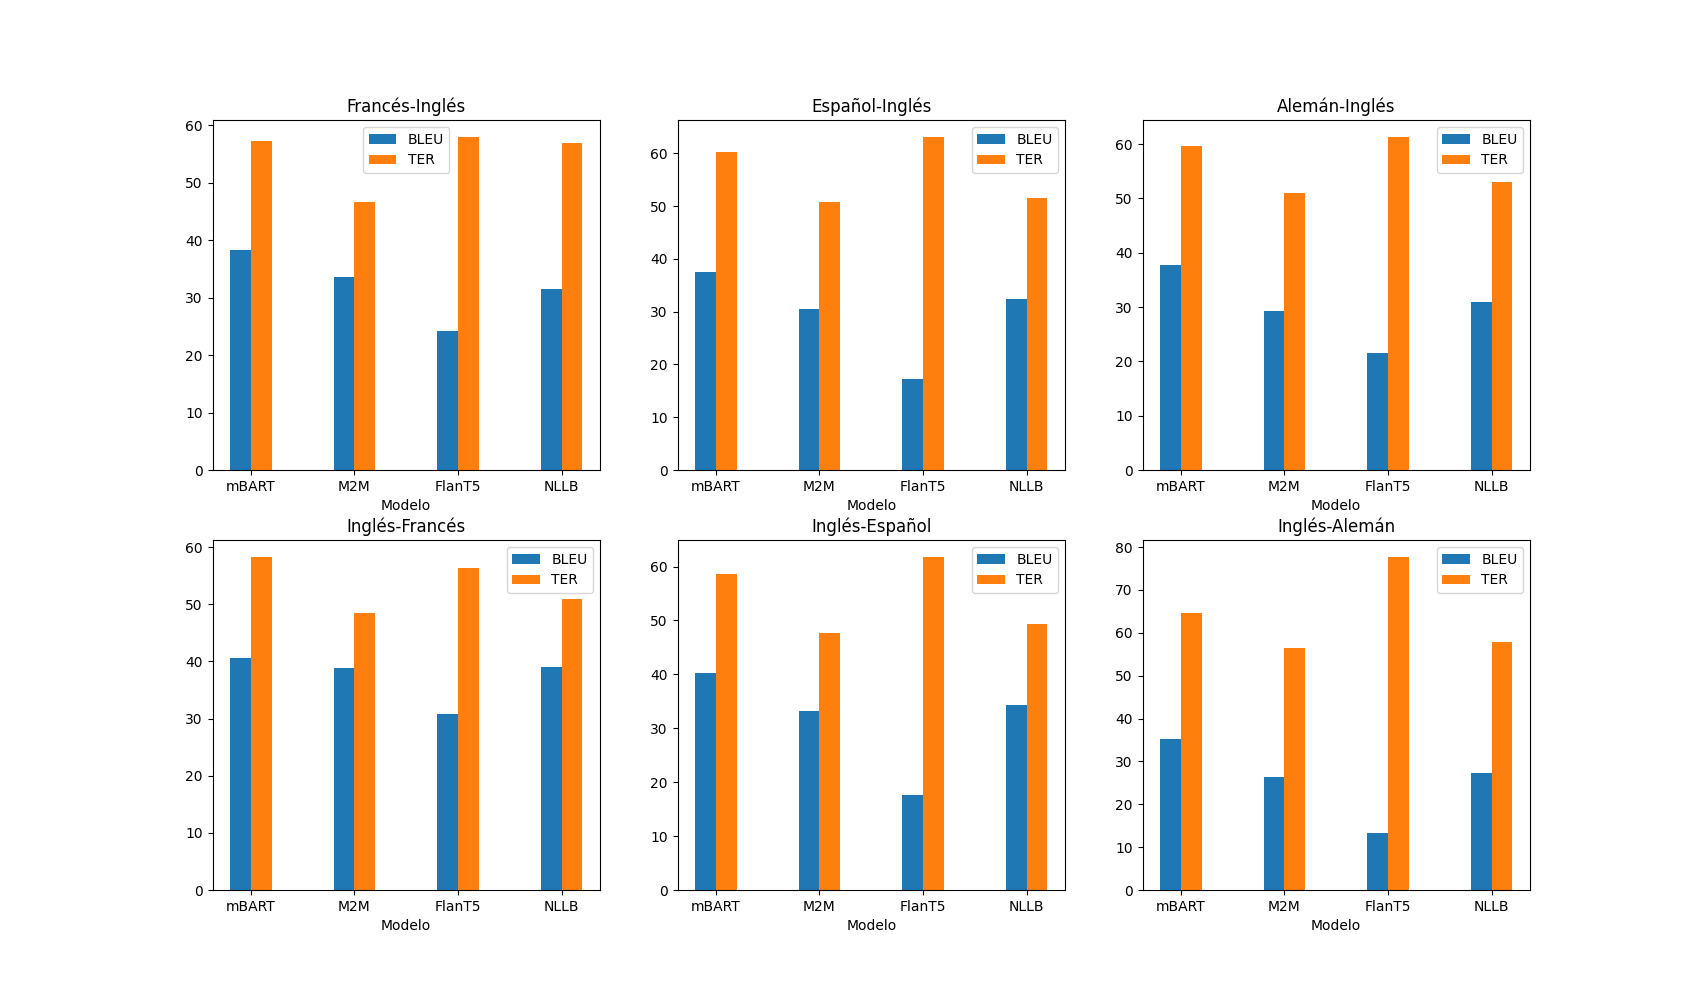
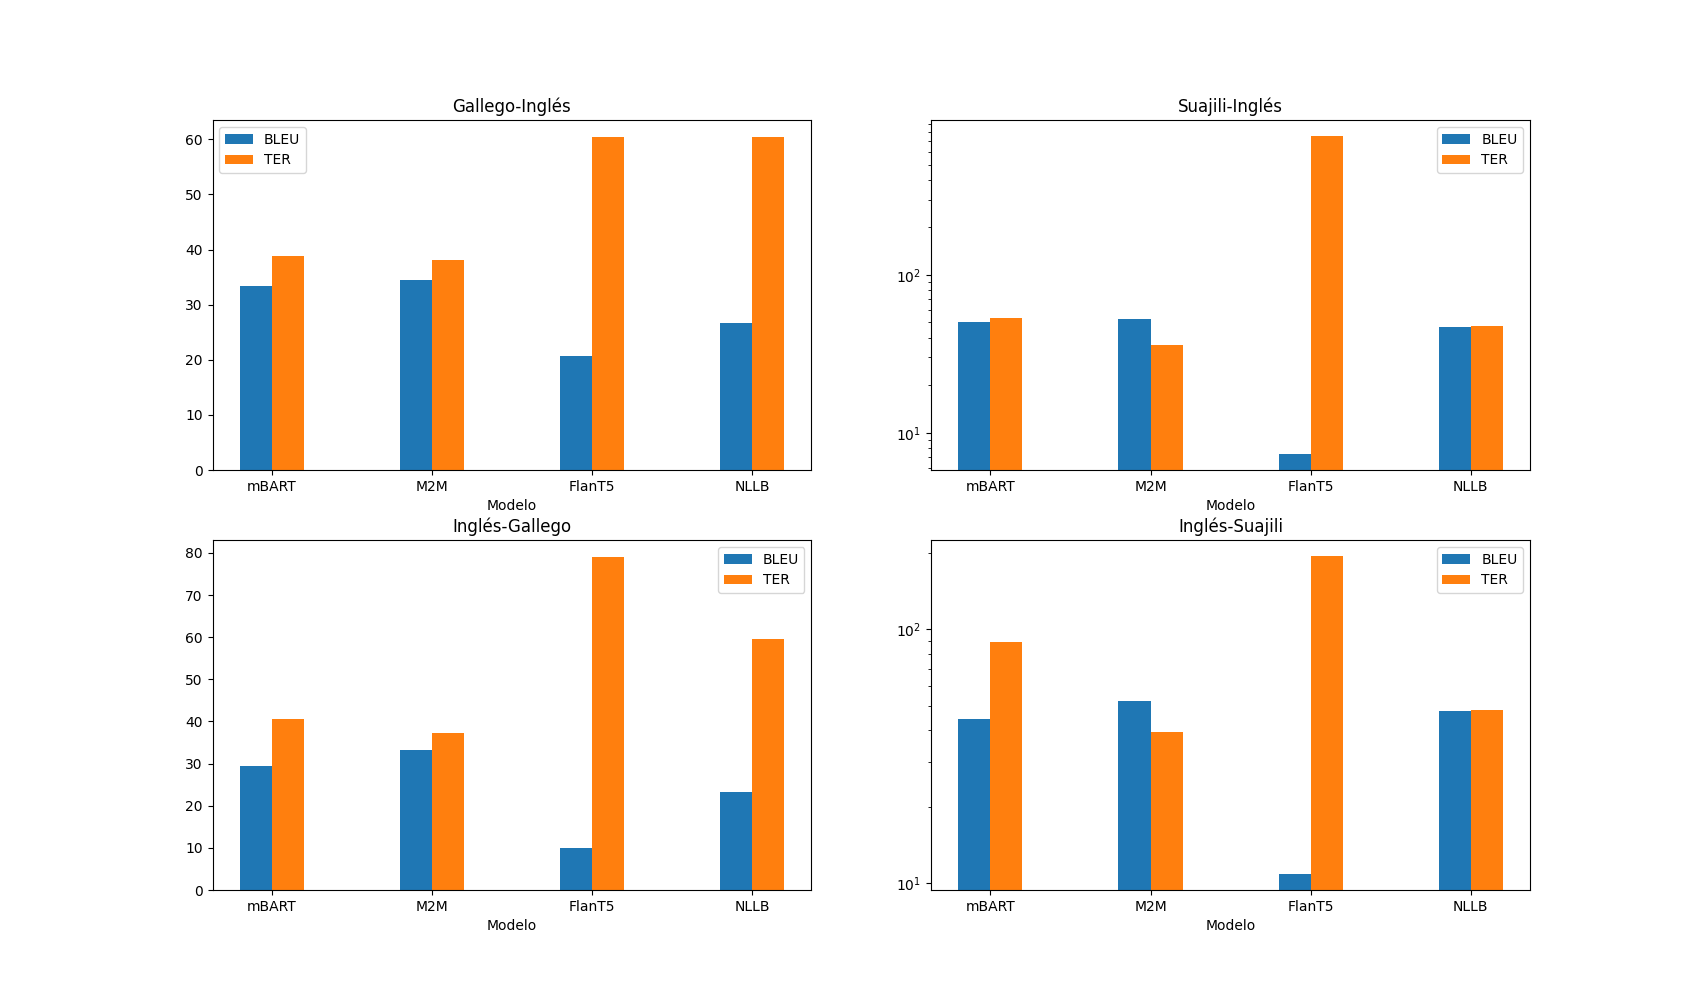
correccion de resultados

diff --git a/utils/bleu_ter.py b/utils/bleu_ter.py
@@ -8,7 +8,7 @@ import pandas as pd
 BAR_WIDTH = 0.2
 iso639 = {'en':'Inglés','fr':'Francés','de':'Alemán','es':'Español','gl':'Gallego','sw':'Suajili','ne':'Nepalí'}
 
-def plot_chart(data,filename, langs):
+def bleu_ter(data,filename, langs):
     MODELS = data['modelo'].unique()
     x = np.arange(len(MODELS))
     pairs = [(src,'en') for src in langs] + [('en',trg) for trg in langs]
@@ -24,7 +24,8 @@ def plot_chart(data,filename, langs):
                       (data['src']==src) & (data['trg']==trg)]['ter'].values.item()*100 for modelo in MODELS]
         plt.bar(x-BAR_WIDTH/2,bleu, BAR_WIDTH, label='BLEU')
         plt.bar(x+BAR_WIDTH-BAR_WIDTH/2,ter, BAR_WIDTH, label='TER')
-        #plt.yscale('log')
+        if src == 'sw' or trg == 'sw':
+            plt.yscale('log')
         #plt.yticks([10,100],[10,100])
         plt.xticks(x, MODELS)
         plt.xlabel('Modelo')
@@ -33,8 +34,51 @@ def plot_chart(data,filename, langs):
     plt.savefig(filename)
     #plt.show()
 
+def wsr_mar(data,filename, src, trg):
+    MODELS = data['modelo'].unique()
+    x = np.arange(len(MODELS))
+
+    plt.figure(figsize=(13,7))
+    plt.subplot(1,2,1)
+    pref_wsr = [data[(data['modelo'] == modelo) & (data['metodo'] == 'prefix') & 
+                    (data['src']==src) & (data['trg']==trg)]['wsr'].values.item() for modelo in MODELS]
+    seg_wsr = [data[(data['modelo'] == modelo) & (data['metodo'] == 'segment') & 
+                    (data['src']==src) & (data['trg']==trg)]['wsr'].values.item() for modelo in MODELS]
+    pref_mar = [data[(data['modelo'] == modelo) & (data['metodo'] == 'prefix') & 
+                    (data['src']==src) & (data['trg']==trg)]['mar'].values.item() for modelo in MODELS]
+    seg_mar = [data[(data['modelo'] == modelo) & (data['metodo'] == 'segment') & 
+                    (data['src']==src) & (data['trg']==trg)]['mar'].values.item() for modelo in MODELS]
+    plt.bar(x-3*BAR_WIDTH/2,pref_wsr, BAR_WIDTH, label='WSR prefijos')
+    plt.bar(x+BAR_WIDTH-3*BAR_WIDTH/2,seg_wsr, BAR_WIDTH, label='WSR segmentos')
+    plt.bar(x+2*BAR_WIDTH-3*BAR_WIDTH/2,pref_mar, BAR_WIDTH, label='MAR prefijos')
+    plt.bar(x+3*BAR_WIDTH-3*BAR_WIDTH/2,seg_mar, BAR_WIDTH, label='MAR segmentos')
+    plt.xticks(x, MODELS)
+    plt.xlabel('Modelo')
+    plt.legend()
+    plt.title(f'{iso639[src]}-{iso639[trg]}')
+
+    plt.subplot(1,2,2)
+    pref_wsr = [data[(data['modelo'] == modelo) & (data['metodo'] == 'prefix') & 
+                    (data['src']==trg) & (data['trg']==src)]['wsr'].values.item() for modelo in MODELS]
+    seg_wsr = [data[(data['modelo'] == modelo) & (data['metodo'] == 'segment') & 
+                    (data['src']==trg) & (data['trg']==src)]['wsr'].values.item() for modelo in MODELS]
+    pref_mar = [data[(data['modelo'] == modelo) & (data['metodo'] == 'prefix') & 
+                    (data['src']==trg) & (data['trg']==src)]['mar'].values.item() for modelo in MODELS]
+    seg_mar = [data[(data['modelo'] == modelo) & (data['metodo'] == 'segment') & 
+                    (data['src']==trg) & (data['trg']==src)]['mar'].values.item() for modelo in MODELS]
+    plt.bar(x-3*BAR_WIDTH/2,pref_wsr, BAR_WIDTH, label='WSR prefijos')
+    plt.bar(x+BAR_WIDTH-3*BAR_WIDTH/2,seg_wsr, BAR_WIDTH, label='WSR segmentos')
+    plt.bar(x+2*BAR_WIDTH-3*BAR_WIDTH/2,pref_mar, BAR_WIDTH, label='MAR prefijos')
+    plt.bar(x+3*BAR_WIDTH-3*BAR_WIDTH/2,seg_mar, BAR_WIDTH, label='MAR segmentos')
+    plt.xticks(x, MODELS)
+    plt.xlabel('Modelo')
+    plt.legend()
+    plt.title(f'{iso639[trg]}-{iso639[src]}')
+    plt.savefig(filename)
+
 data = pd.read_csv('resultados/test.csv')
 filename = 'figuras/bleu_ter.png'
-langs = ['fr','es','de']
-#langs = ['gl','sw']
-plot_chart(data, filename, langs)
+#langs = ['fr','es','de']
+langs = ['gl','sw']
+bleu_ter(data, filename, langs)
+#wsr_mar(data, filename, 'sw', 'en')
